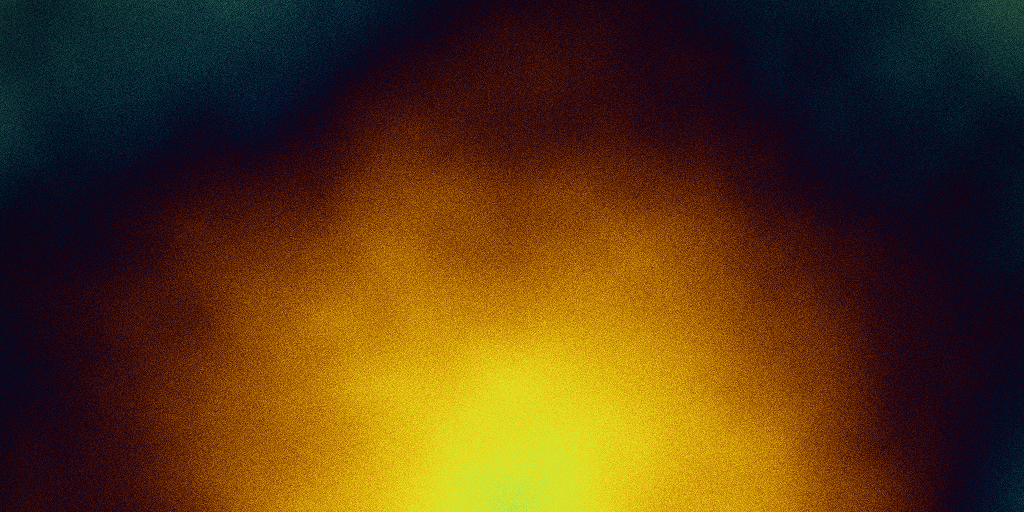
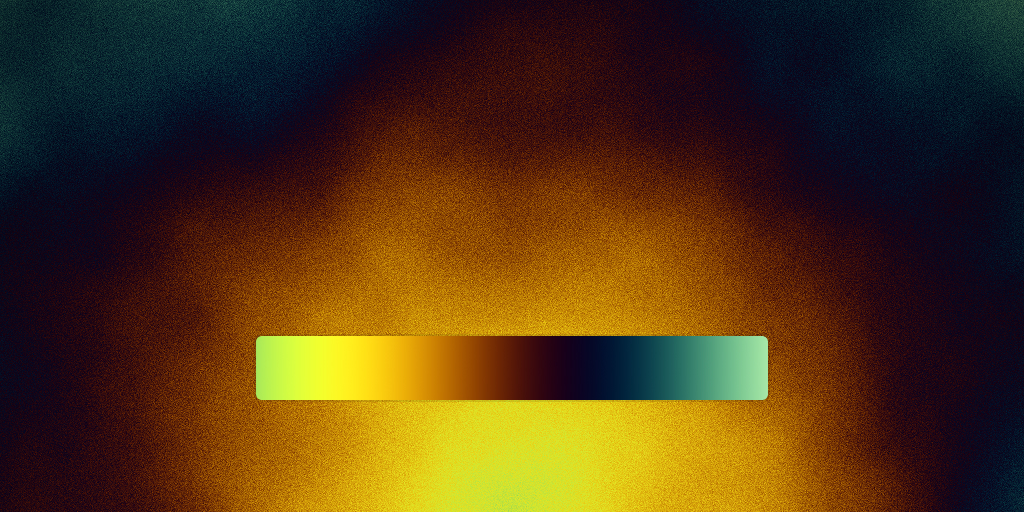
Update Read Me

Changed region(s): [[0.25, 0.6562, 0.75, 0.7812]]

diff --git a/components/Camera.tsx b/components/Camera.tsx
@@ -9,7 +9,6 @@ import { usePlayerPosition } from '@/hooks/usePlayerPosition'
 
 const { ACTION } = CameraControlsImpl
 
-// Unified camera configuration per stage
 export const CAMERA_CONFIG: Record<
   Stage,
   {

diff --git a/README.md b/README.md
@@ -2,7 +2,7 @@
 
 Quizroller is a proof of concept game developed to showcase the potential of 3D web for learning experiences.
 
-It's pretty simple, you
+It's pretty simple, you navigate your marble over terrain, answering multiple choice questions as you go.
 
 **[👉 Have a play](https://quizroller.vercel.app)**
 
@@ -16,12 +16,23 @@ It's pretty simple, you
 - **GSAP** for animations
 - **Tailwind** for UI styling
 
+## Colour Palette
+
+![Palette](https://github.com/prag-matt-ic/quiz-roller/blob/main/public/screenshots/palette.jpg?raw=true)
+
+All the colours are driven by a [cosine gradient palette](https://iquilezles.org/articles/palettes/).
+In theory, the entire theme of the app could be changed by adjusting the 4 gradient input vectors.
+
+There are helpers in GLSL and TypeScript to retrieve colours using an input value of 0-1.
+
+I also created a "texure generator" which was used to produce the background image.
+
 ## State Management
 
-Most of the game logic is encapsulated within the `GameProvider`.
+Most of the game logic is encapsulated within the `GameProvider` which is a Zustand store initialised into React Context.
 It handles the current stage, question, player positioning and collision/intersection events.
 
-## Player and Movement
+## Player
 
 The player is a Rapier kinematic sphere with a `BallCollider`.
 
@@ -32,22 +43,30 @@ Depending on whether the device is mobile or not, different controls are rendere
 - Desktop: WASD/Arrow keys
 - Mobile: a virtual touch joystick
 
-Movement is applied each frame with gravity keeping the marble planted on raised tiles.
-The rotation animation is derived from the movement velocity and helps make the movement feel natural.
-
-### Marble Shading
-
-xxx
+Movement is applied each frame, with gravity keeping the marble planted on raised tiles.
+The rotation animation is derived from the player velocity and helps the movement feel natural.
 
 ### Collisions and Confirmations
 
 Rapier sensors mark interactive surfaces: info zone, start tile, answer tiles, colour tiles, and out‑of‑bounds.
 
-For answers, entering a sensor triggers a GSAP‑driven confirmation timer. Exiting before the timer completes cancels the choice.
+For answers, entering a sensor triggers a GSAP‑driven confirmation timer. Exiting before the timer completes cancels the choice. If the timer completes, the choice is confirmed.
 
 When the player enters an info zone, HTML content is animated in.
 
-If the player falls out of bounds, it resets their position or goes to the game over stage.
+If the player falls out of bounds, it resets their position or goes to the 'game over' stage.
+
+### Colour Config
+
+![Player Colour](https://github.com/prag-matt-ic/quiz-roller/blob/main/public/screenshots/player-colour.jpg?raw=true)
+
+The user can change their marble colour by rolling over one of the colour picker tiles.
+
+Colour selection is band‑based (a range between 0 and 1 for sampling the gradient palette) and persisted in the game store.
+
+### Marble Shading
+
+The marble uses a custom GLSL material that the cosine palette and blends colours with animated noise. It supports a lit and a flat mode depending on performance settings.
 
 ## Infinite Platform
 
@@ -57,7 +76,8 @@ The main `Platform` is formed from a group of instanced rigid bodies (grid of ro
 
 ### Row Recycling
 
-When a row passes the camera, it wraps to the back and is assigned new 'row data'. This approach means the camera can look at the player, whilst the floor moves like a conveyor beneath it. Limiting the number of rendered rows, and using instanced meshes ensure optimal performance.
+When a row passes the camera, it wraps to the back and is assigned new 'row data'. This approach means the camera can look at the player, whilst the floor moves like a conveyor beneath it.
+Limiting the number of rendered rows, and using instanced meshes ensure optimal performance.
 
 ### Surface Elements
 
@@ -69,15 +89,23 @@ The translation (Z movement) of surface elements is synced with the movement of 
 
 ### Tile Shader
 
-The platform tiles use a custom shader to colour the tiles, fade in/out and highlight near the player.
+The platform tiles use a custom GLSL shader to colour the tiles, fade in/out and highlight near the player.
 
-## Colour Palette
+## Questions and Answers
 
-![Palette](https://github.com/prag-matt-ic/quiz-roller/blob/main/public/screenshots/palette.jpg?raw=true)
+![Question](https://github.com/prag-matt-ic/quiz-roller/blob/main/public/screenshots/question.jpg?raw=true)
 
-All the colours are driven by a [cosine gradient palette](https://iquilezles.org/articles/palettes/). In theory, the entire theme of the app could be changed by adjusting the 4 gradient input vectors.
+Questions are chosen to avoids repeats where possible and shuffle the answer positions.
 
-There are helpers in GLSL and TypeScript to retrieve colours using an input value of 0-1.
+Each question has a difficulty rating of 1-3. Every two correct answers, the difficulty increases.
+
+### Answer Selection
+
+![Answer](https://github.com/prag-matt-ic/quiz-roller/blob/main/public/screenshots/answer.jpg?raw=true)
+
+- A HUD indicator briefly shows “correct” or “incorrect”
+- A short particle burst plays, with a correct answer attracting green particles to the player, and an incorrect answer dispersing orange particles.
+- The chosen answer is recorded in `confirmedAnswers`
 
 ## Floating Background Tiles
 
